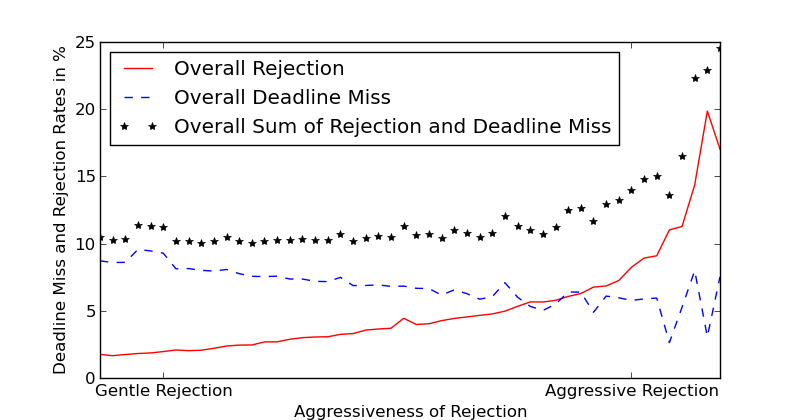
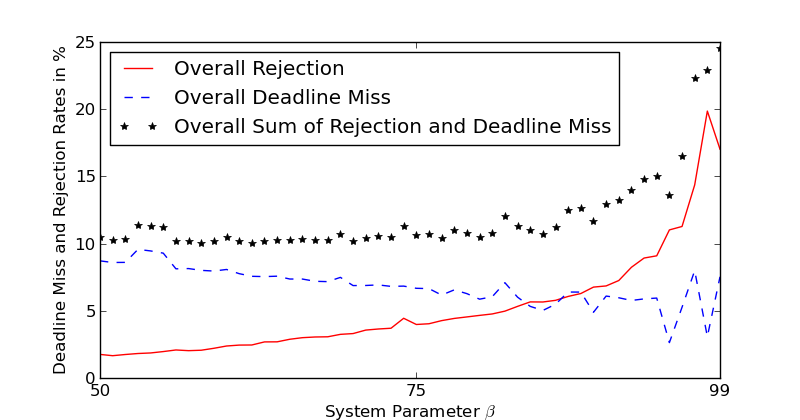
modifyed varying_ac figure

Changed region(s): [[0.375, 0.8976, 0.6562, 1.0], [0.6875, 0.8976, 0.9062, 0.9595], [0.0938, 0.8976, 0.2812, 0.9595]]

diff --git a/python/MicroFuge_Pyplot/varying_ac/varying_ac.py b/python/MicroFuge_Pyplot/varying_ac/varying_ac.py
@@ -61,10 +61,10 @@ plt.plot(x_axis, overall_sum, "k*", label="Overall Sum of Rejection and Deadline
 
 plt.axis([50,99,0,25])
 
-plt.xticks([55,92], ['Gentle Rejection', 'Aggressive Rejection'])
+plt.xticks([50, 75, 99], ['50', '75' , '99'])
 
 plt.ylim(ymin=0)
-plt.xlabel("Aggressiveness of Rejection")
+plt.xlabel("System Parameter " + r'$\beta$')
 plt.ylabel("Deadline Miss and Rejection Rates in %")
 # plt.twinx()
 # plt.ylabel("Rejection Rate in %")
